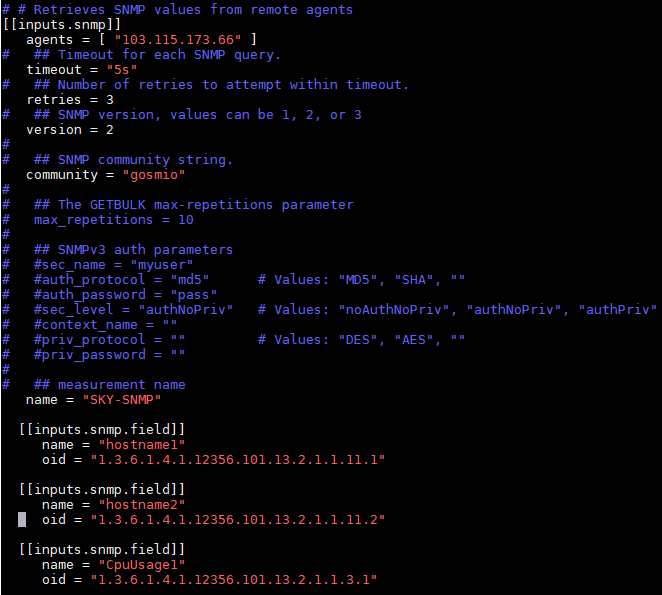
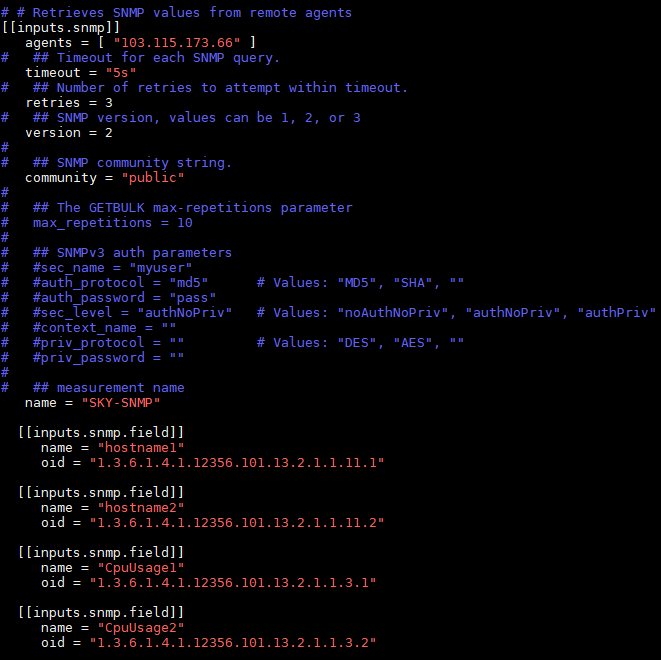
Site updated: 2019-03-27 15:38:20

diff --git a/2019/03/26/建置snmp監控/index.html b/2019/03/26/建置snmp監控/index.html
@@ -1,7 +1,14 @@
-<!DOCTYPE html><html lang="en-us"><head><meta charset="UTF-8"><meta http-equiv="X-UA-Compatible" content="IE=edge,chrome=1"><title>建置SNMP監控 | 萱仔的Blog</title><meta name="description"><meta name="generator" content="萱仔的Blog"><meta name="author" content="John Doe"><meta name="keywords" content="sjaak van den berg, svdb, bitcoin, crypto, payment, integration, bitcoins, wordpress, betaling, webshop, front end, design, ontwerp, developer"><meta name="HandheldFriendly" content="True"><meta name="MobileOptimized" content="320"><meta name="viewport" content="width=device-width,initial-scale=1.0,maximum-scale=1,user-scalable=0"><link rel="stylesheet" type="text/css" href="/styles/screen.css"><link rel="apple-touch-icon" sizes="57x57" href="/images/apple-touch-icon-57x57.png"><link rel="apple-touch-icon" sizes="60x60" href="/images/apple-touch-icon-60x60.png"><link rel="apple-touch-icon" sizes="72x72" href="/images/apple-touch-icon-72x72.png"><link rel="apple-touch-icon" sizes="76x76" href="/images/apple-touch-icon-76x76.png"><link rel="apple-touch-icon" sizes="114x114" href="/images/apple-touch-icon-114x114.png"><link rel="apple-touch-icon" sizes="120x120" href="/images/apple-touch-icon-120x120.png"><link rel="apple-touch-icon" sizes="144x144" href="/images/apple-touch-icon-144x144.png"><link rel="apple-touch-icon" sizes="152x152" href="/images/apple-touch-icon-152x152.png"><link rel="apple-touch-icon" sizes="180x180" href="/images/apple-touch-icon-180x180.png"><link rel="icon" type="image/png" sizes="16x16" href="/images/favicon-16x16.png"><link rel="icon" type="image/png" sizes="32x32" href="/images/favicon-32x32.png"><link rel="icon" type="image/png" sizes="96x96" href="/images/favicon-96x96.png"><link rel="icon" type="image/png" sizes="160x160" href="/images/favicon-160x160.png"><link rel="icon" type="image/png" sizes="192x192" href="/images/favicon-192x192.png"><meta name="msapplication-TileColor" content="#121315"><meta name="msapplication-TileImage" content="/images/mstile-144x144.png"></head><body itemscope itemtype="https://schema.org/WebPage"><header itemscope itemtype="https://schema.org/WPHeader"><a href="/"><img src="/images/svdb.png" alt="萱仔的Blog" title="萱仔的Blog"></a><h1><a href="/" alt="萱仔的Blog" title="萱仔的Blog" itemprop="headline">萱仔的Blog</a></h1><p itemprop="description"></p><nav itemscope itemtype="https://schema.org/SiteNavigationElement"><ul><li itemprop="name"><a href="/" alt="Home" title="Home" itemprop="url">Home</a></li><li itemprop="name"><a href="/articles" alt="Articles" title="Articles" itemprop="url">Articles</a></li><li itemprop="name"><a href="/about" alt="About" title="About" itemprop="url">About</a></li></ul></nav><div class="space"></div></header><main itemscope itemtype="https://schema.org/Blog"><article class="full"><h1 itemprop="headline">建置SNMP監控</h1><span class="post-meta">Published on<time itemprop="datePublished" datetime="2019-03-26T10:03:13.000Z"> 星期二, 三月 26日 2019 at 18:03</time><br>Last updated on<time itemprop="dateModified" datetime="2019-03-26T10:03:13.000Z"> 星期三, 三月 27日 2019 at 14:43</time></span><h4 id="SNMP介紹"><a href="#SNMP介紹" class="headerlink" title="SNMP介紹 "></a>SNMP介紹 <br></h4><p>SNMP是簡單網路管理協定(Simple Network Management Protocol)的簡稱，也就是一種簡化的網路管理工具，可提供管理、收集數據、發包控制等等的簡單網路功能，本次示範選擇用telegraf配置工具。</p>
+<!DOCTYPE html><html lang="en-us"><head><meta charset="UTF-8"><meta http-equiv="X-UA-Compatible" content="IE=edge,chrome=1"><title>建置SNMP監控 | 萱仔的Blog</title><meta name="description"><meta name="generator" content="萱仔的Blog"><meta name="author" content="John Doe"><meta name="keywords" content="sjaak van den berg, svdb, bitcoin, crypto, payment, integration, bitcoins, wordpress, betaling, webshop, front end, design, ontwerp, developer"><meta name="HandheldFriendly" content="True"><meta name="MobileOptimized" content="320"><meta name="viewport" content="width=device-width,initial-scale=1.0,maximum-scale=1,user-scalable=0"><link rel="stylesheet" type="text/css" href="/styles/screen.css"><link rel="apple-touch-icon" sizes="57x57" href="/images/apple-touch-icon-57x57.png"><link rel="apple-touch-icon" sizes="60x60" href="/images/apple-touch-icon-60x60.png"><link rel="apple-touch-icon" sizes="72x72" href="/images/apple-touch-icon-72x72.png"><link rel="apple-touch-icon" sizes="76x76" href="/images/apple-touch-icon-76x76.png"><link rel="apple-touch-icon" sizes="114x114" href="/images/apple-touch-icon-114x114.png"><link rel="apple-touch-icon" sizes="120x120" href="/images/apple-touch-icon-120x120.png"><link rel="apple-touch-icon" sizes="144x144" href="/images/apple-touch-icon-144x144.png"><link rel="apple-touch-icon" sizes="152x152" href="/images/apple-touch-icon-152x152.png"><link rel="apple-touch-icon" sizes="180x180" href="/images/apple-touch-icon-180x180.png"><link rel="icon" type="image/png" sizes="16x16" href="/images/favicon-16x16.png"><link rel="icon" type="image/png" sizes="32x32" href="/images/favicon-32x32.png"><link rel="icon" type="image/png" sizes="96x96" href="/images/favicon-96x96.png"><link rel="icon" type="image/png" sizes="160x160" href="/images/favicon-160x160.png"><link rel="icon" type="image/png" sizes="192x192" href="/images/favicon-192x192.png"><meta name="msapplication-TileColor" content="#121315"><meta name="msapplication-TileImage" content="/images/mstile-144x144.png"></head><body itemscope itemtype="https://schema.org/WebPage"><header itemscope itemtype="https://schema.org/WPHeader"><a href="/"><img src="/images/svdb.png" alt="萱仔的Blog" title="萱仔的Blog"></a><h1><a href="/" alt="萱仔的Blog" title="萱仔的Blog" itemprop="headline">萱仔的Blog</a></h1><p itemprop="description"></p><nav itemscope itemtype="https://schema.org/SiteNavigationElement"><ul><li itemprop="name"><a href="/" alt="Home" title="Home" itemprop="url">Home</a></li><li itemprop="name"><a href="/articles" alt="Articles" title="Articles" itemprop="url">Articles</a></li><li itemprop="name"><a href="/about" alt="About" title="About" itemprop="url">About</a></li></ul></nav><div class="space"></div></header><main itemscope itemtype="https://schema.org/Blog"><article class="full"><h1 itemprop="headline">建置SNMP監控</h1><span class="post-meta">Published on<time itemprop="datePublished" datetime="2019-03-26T10:03:13.000Z"> 星期二, 三月 26日 2019 at 18:03</time><br>Last updated on<time itemprop="dateModified" datetime="2019-03-26T10:03:13.000Z"> 星期三, 三月 27日 2019 at 15:38</time></span><h4 id="SNMP介紹"><a href="#SNMP介紹" class="headerlink" title="SNMP介紹 "></a>SNMP介紹 <br></h4><p>SNMP是簡單網路管理協定(Simple Network Management Protocol)的簡稱，也就是一種簡化的網路管理工具，可提供管理、收集數據、發包控制等等的簡單網路功能，本次示範選擇用telegraf配置工具。</p>
 <h4 id="環境-Ubuntu-16-04-4-LTS"><a href="#環境-Ubuntu-16-04-4-LTS" class="headerlink" title="環境:Ubuntu 16.04.4 LTS"></a>環境:Ubuntu 16.04.4 LTS<br></h4><p>首先輸入vim /etc/telegraf/telegraf.conf進入telegraf配置文件的編輯模式，在指令模式下用關鍵字/inputs.snmp到snmp的設定部分，在oid寫入的部分一般推薦使用 [[inputs.snmp.field]] 來抓取oid。</p>
-<h4 id="oid-是用來對應Switch、FireWall等硬體設備的詳細狀態訊息的動態api接口名稱，全名為Object-Identifier，以下為範例。"><a href="#oid-是用來對應Switch、FireWall等硬體設備的詳細狀態訊息的動態api接口名稱，全名為Object-Identifier，以下為範例。" class="headerlink" title="oid:是用來對應Switch、FireWall等硬體設備的詳細狀態訊息的動態api接口名稱，全名為Object Identifier，以下為範例。"></a>oid:是用來對應Switch、FireWall等硬體設備的詳細狀態訊息的動態api接口名稱，全名為Object Identifier，以下為範例。</h4><p><img src="/2019/03/26/建置snmp監控/snmp1.png" alt=""></p>
-<h4 id="1-安裝-snmpwalk命令"><a href="#1-安裝-snmpwalk命令" class="headerlink" title="1.安裝 snmpwalk命令"></a>1.安裝 snmpwalk命令</h4><pre><code>apt-get install -y snmp
-</code></pre><p>安裝完後在瀏覽器輸入機器ip，看到以下畫面即安裝完成</p>
-<p><img src="/2019/03/26/建置snmp監控/在ubuntu下安装lnmp/nginx.png" alt=""></p>
-</article></main></body></html>
+<p>oid:是用來對應Switch、FireWall等硬體設備的詳細狀態訊息的動態api接口名稱，全名為Object Identifier，以下為範例。</p>
+<p><img src="/2019/03/26/建置snmp監控/snmp1.png" alt=""></p>
+<h4 id="參數說明"><a href="#參數說明" class="headerlink" title="參數說明"></a>參數說明</h4><p>agents : 被監控的設備IP，預設port為161，可省略</p>
+<p>community : SNMP密碼，如果不知道，就不能透過SNMP獲取系統數據</p>
+<p>注意:在telegraf的inputs.snmp部分寫入的oid，必須是oid樹結構的末梢，如果非末梢會導致讀到的是數據表而非單一值，而無法寫入influxdb中。</p>
+<p>有了oid對照表，我們可以精確地抓取相關硬體設備的動態訊息。snmp也有提供相關的工具幫助我們驗證oid的可用性，可以安裝snmpwalk檢測工具，以Ubuntu為例:</p>
+<pre><code>apt-get install -y snmp
+</code></pre><p>查看版本</p>
+<pre><code>snmpwalk -V
+</code></pre><p>輸入以下指令查詢oid的有效性</p>
+<pre><code>snmpwalk -v 2 -c YourCommunity &lt;IP/URL&gt;&lt;oid&gt;
+</code></pre></article></main></body></html>
